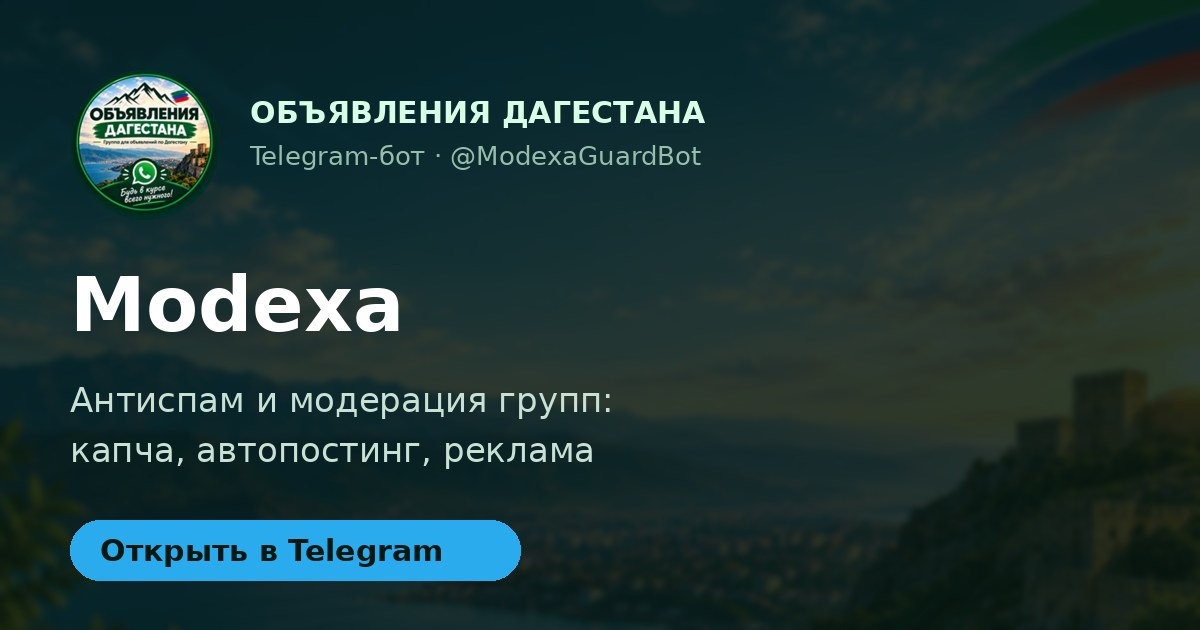
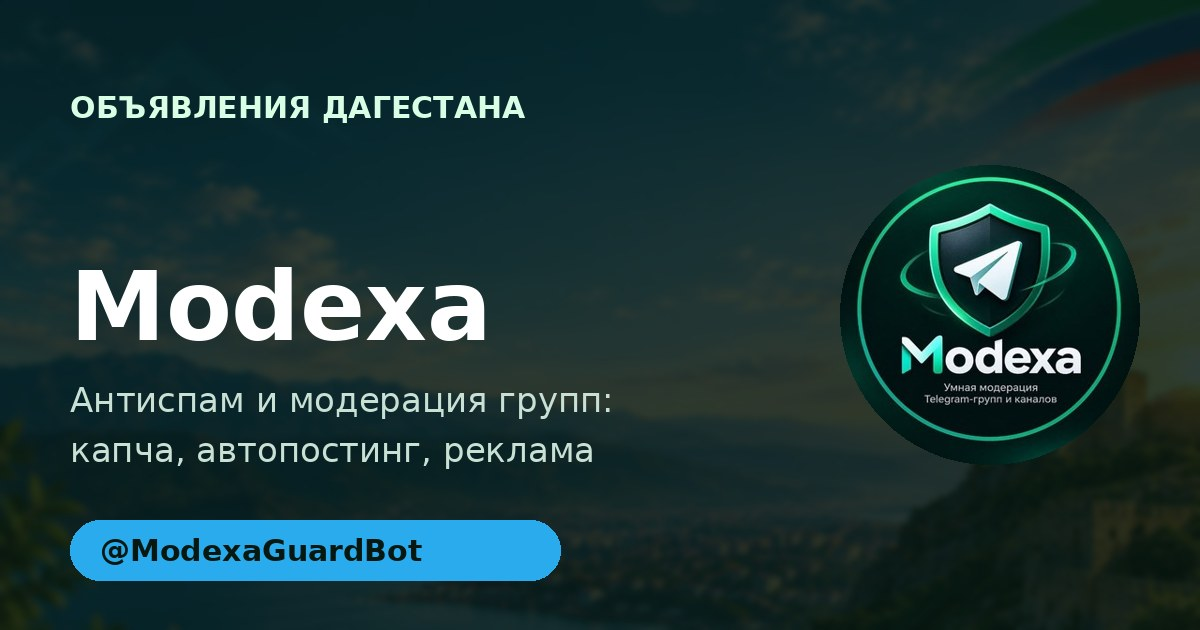
Страница Modexa: логотип, скриншоты бота, новая превью-картинка (#7)
Claude-Session: https://claude.ai/code/session_019N4sGgrMWWMMvw9nuPWSGe

diff --git a/bot-moderation.html b/bot-moderation.html
@@ -112,6 +112,7 @@
 <main id="main">
   <section class="hero" style="padding-bottom:40px">
     <div class="wrap">
+      <img class="bot-logo" src="assets/images/modexa-logo.jpg" alt="Логотип Modexa" width="96" height="96">
       <div class="eyebrow">Telegram-бот</div>
       <h1>Modexa — бот модерации для групп и каналов</h1>
       <p class="lead">Защищает группу от спама и рутины: капча, антифлуд, фильтр ссылок и мата, приветствие, автопостинг и приём платной рекламы — в одном боте на русском языке.</p>
@@ -133,6 +134,18 @@
       <div class="why-card"><h3>Статистика и веб-панель</h3><p>Отчёты по группе и удобные настройки в Telegram Mini App.</p></div>
       <div class="why-card"><h3>Помощники</h3><p>Дайте доступ менеджеру или модератору с нужными правами.</p></div>
       <div class="why-card"><h3>Рассылки и рефералы</h3><p>Бонусные дни за приглашённых владельцев групп.</p></div>
+      </div>
+    </div>
+  </section>
+
+  <section class="promo-section">
+    <div class="wrap">
+      <div class="section-head"><div class="eyebrow">Скриншоты</div><h2>Как выглядит бот</h2></div>
+      <div class="shots">
+        <figure class="shot"><img src="assets/images/modexa-about.jpg" alt="Скриншот бота Modexa: знакомство с ботом" width="560" height="862" loading="lazy"><figcaption><strong>Знакомство с ботом</strong>Описание и кнопка «Старт» — бот сразу объясняет, что умеет.</figcaption></figure>
+        <figure class="shot"><img src="assets/images/modexa-groups.jpg" alt="Скриншот бота Modexa: мои группы и каналы" width="560" height="862" loading="lazy"><figcaption><strong>Мои группы и каналы</strong>Все подключённые группы в одном списке: ✅ — лицензия активна.</figcaption></figure>
+        <figure class="shot"><img src="assets/images/modexa-stats.jpg" alt="Скриншот бота Modexa: статистика группы" width="560" height="862" loading="lazy"><figcaption><strong>Статистика группы</strong>Участники, вступившие и вышедшие, сообщения и нарушения по дням.</figcaption></figure>
+        <figure class="shot"><img src="assets/images/modexa-ads.jpg" alt="Скриншот бота Modexa: приём рекламы" width="560" height="554" loading="lazy"><figcaption><strong>Приём рекламы</strong>Цена, условия, заявки и закрепление рекламы — без комиссии.</figcaption></figure>
       </div>
     </div>
   </section>

diff --git a/style.css b/style.css
@@ -780,3 +780,16 @@ header > *{pointer-events:auto;}
 .crumbs a{color:var(--mint);}
 .audience-grid .rules-list li{padding:10px 0; font-size:14.5px;}
 @media (max-width:900px){.audience-grid[style]{grid-template-columns:1fr !important;}}
+
+
+/* Скриншоты бота и логотип на странице бота */
+.bot-logo{width:96px; height:96px; border-radius:50%; margin:0 auto 14px; display:block; box-shadow:0 8px 24px -8px rgba(0,0,0,.6); border:2px solid var(--glass-border);}
+.shots{display:grid; grid-template-columns:repeat(4,1fr); gap:18px; align-items:start;}
+.shot{margin:0;}
+.shot img{width:100%; height:auto; border-radius:20px; border:1px solid var(--glass-border); box-shadow:var(--shadow-md); background:var(--bg-deep);}
+.shot figcaption{margin-top:10px; font-size:13.5px; color:var(--ink-soft);}
+.shot figcaption strong{display:block; color:var(--ink); font-size:14.5px; margin-bottom:2px;}
+@media (max-width:900px){
+  .shots{display:flex; overflow-x:auto; scroll-snap-type:x mandatory; gap:14px; margin:0 -20px; padding:4px 20px 14px; -webkit-overflow-scrolling:touch;}
+  .shot{flex:0 0 70%; max-width:300px; scroll-snap-align:center;}
+}
